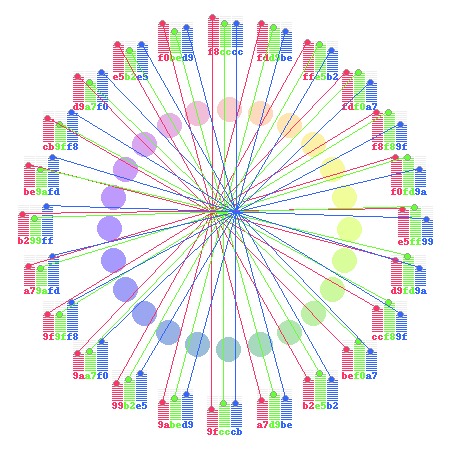
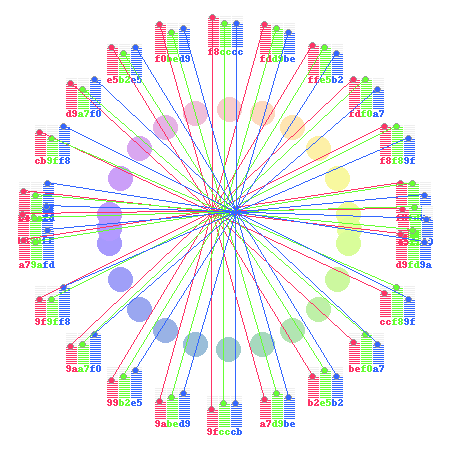
楕円にしても効果なし

Changed region(s): [[0.0311, 0.0311, 0.9644, 0.9644]]

diff --git a/step15.py b/step15.py
@@ -27,9 +27,25 @@ color_list = [(0xff, 0x66, 0x99), (0xff, 0x77, 0x77),
 
 def main():
 
-    # 0時の方向から時計回り
-    theta_list = [90, 75, 60, 45, 30, 15, 0, 345,
-                  330, 315, 300, 285, 270, 255, 240, 225, 210, 195, 180, 165, 150, 135, 120, 105]
+    # 0時の方向から時計回り。正円。
+    # theta_list = [90, 75, 60, 45, 30, 15,
+    #              0, 345, 330, 315, 300, 285,
+    #              270, 255, 240, 225, 210, 195,
+    #              180, 165, 150, 135, 120, 105]
+    # 0時の方向から時計回り。正円。平べったくする。
+    d1 = 1
+    d2 = 2
+    d3 = 3
+    d4 = 5
+    d5 = 8
+    theta_list = [90, 75-d1, 60-d2, 45-d3, 30-d4, 15-d5,
+                  0, 345+d5, 330+d4, 315+d3, 300+d2, 285+d1,
+                  270, 255-d1, 240-d2, 225-d3, 210-d4, 195-d5,
+                  180, 165+d5, 150+d4, 135+d3, 120+d2, 105+d1]
+    # theta_list = [90, 75-d1, 60-d2, 45-d3, 30-d4, 15-d5,
+    #              0, 345+d5, 330+d4, 315+d3, 300+d2, 285+d1,
+    #              270, 255+d1, 240+d2, 225+d3, 210+d4, 195+d5,
+    #              180, 165+d5, 150+d4, 135+d3, 120+d2, 105+d1]
     size = len(theta_list)
 
     im = Image.new('RGB', (450, 450), white)
